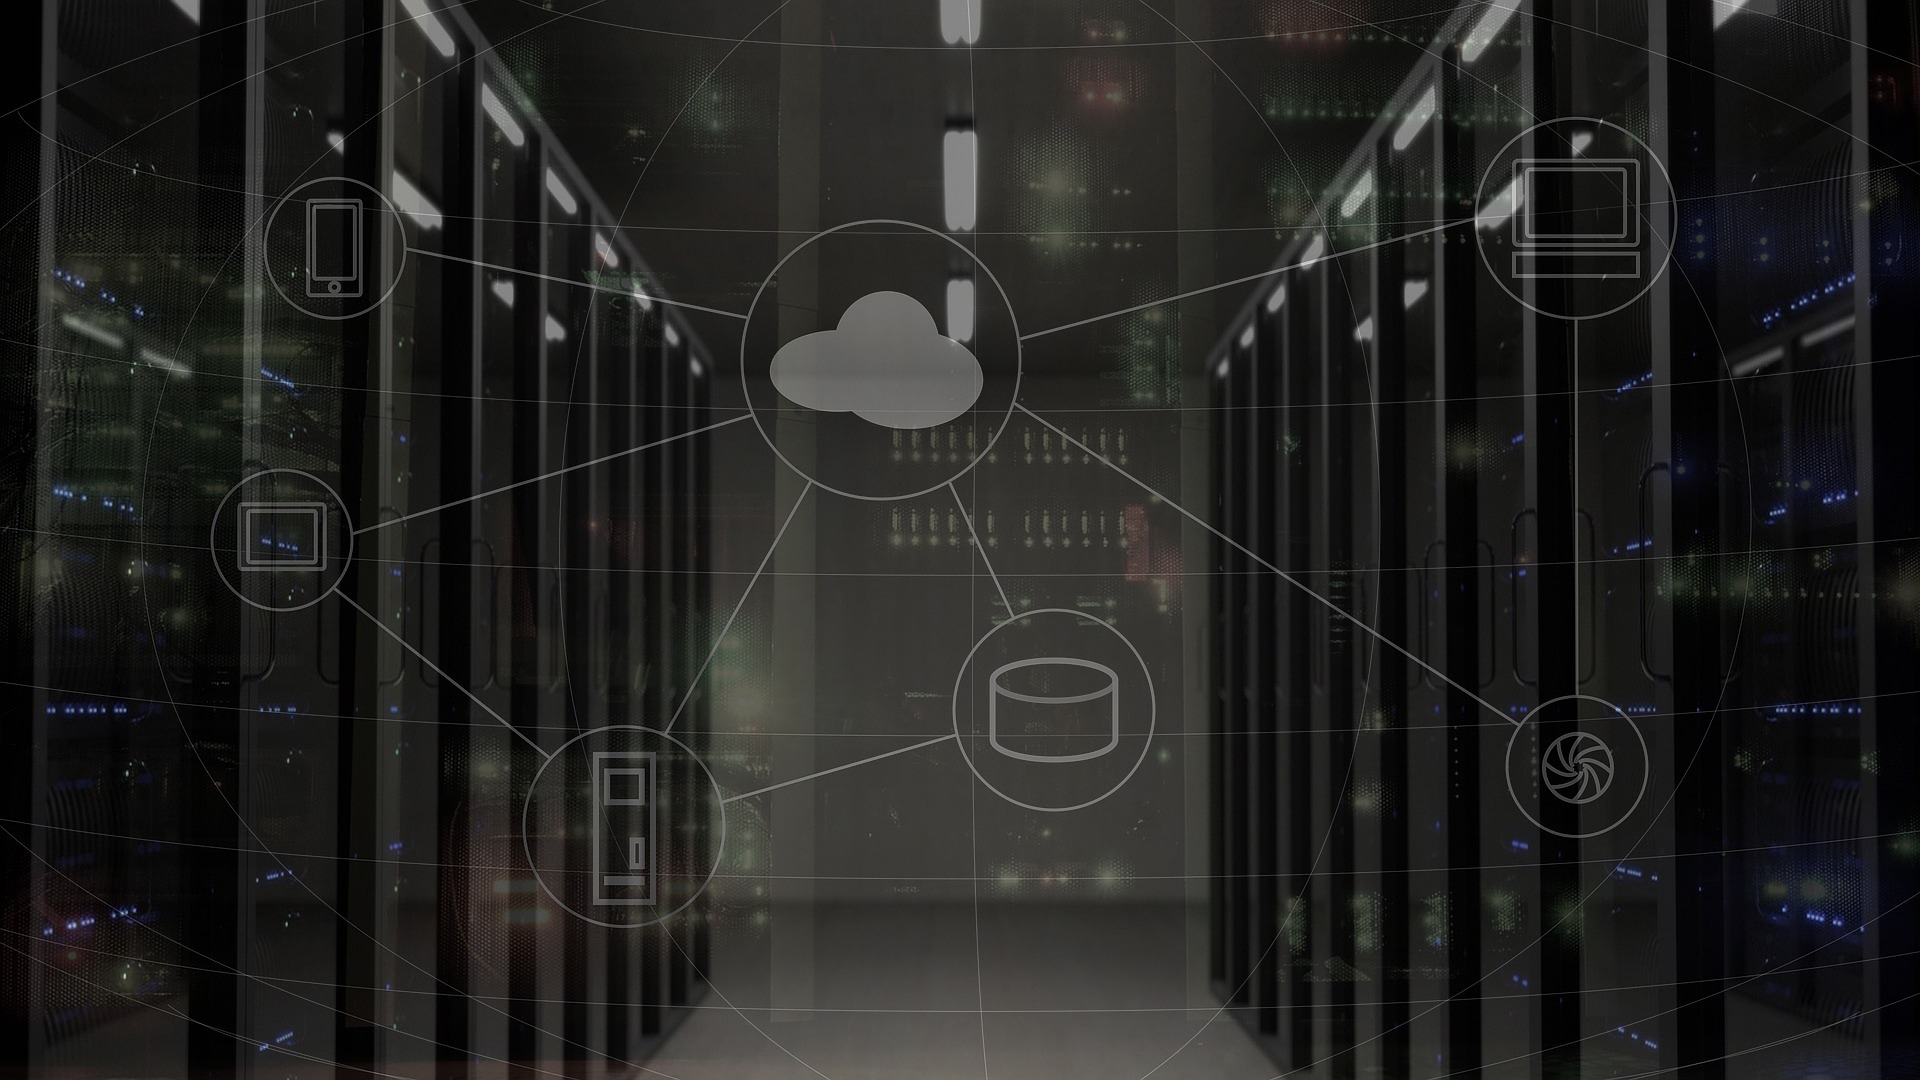
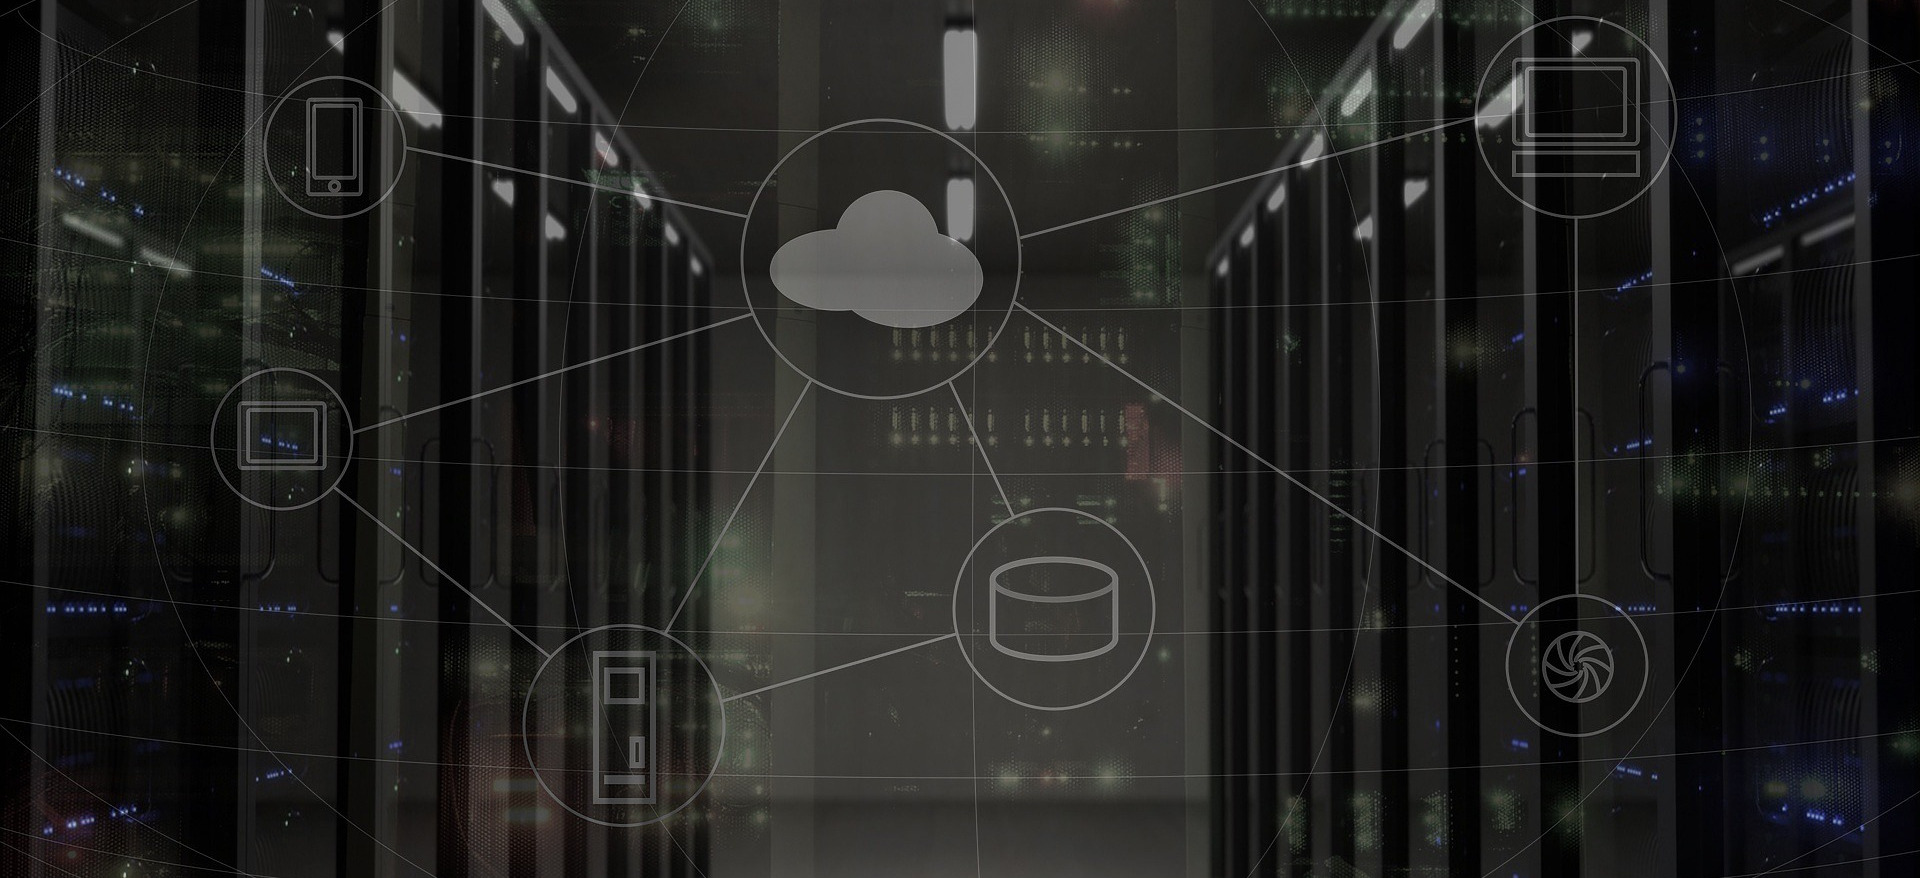
Imagen portada

diff --git a/web/index.html b/web/index.html
@@ -27,8 +27,6 @@
     <!-- Zona de contenido -->
     <main>
         <img style="width: 100%; height: 100%;" src="img/empresa.jpg">
-        <section class="container">
-        </section>
     </main>
 
     <!-- Footer -->
